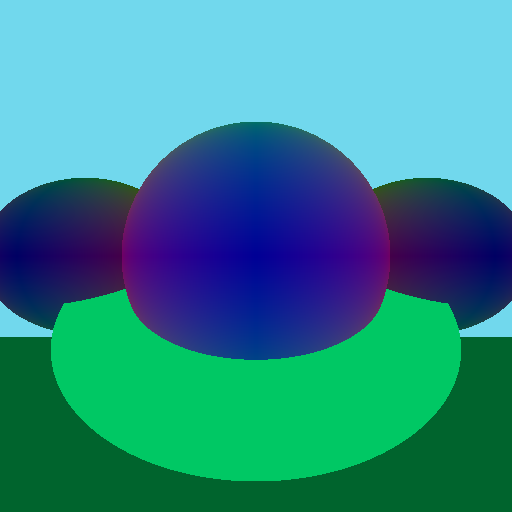
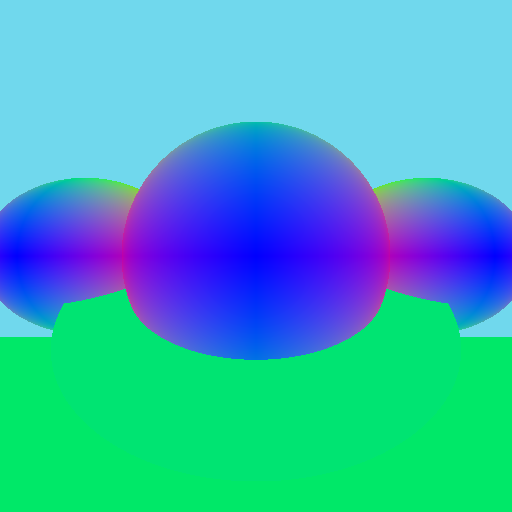
Color from 255 to 1

diff --git a/src/math/Color.java b/src/math/Color.java
@@ -8,17 +8,24 @@ public class Color extends Tuple {
             MUtils.normRGB(b),
             -1);
     }
+    public Color(int r, int g, int b){ 
+        super(
+            MUtils.normRGB(r/255),
+            MUtils.normRGB(g/255),
+            MUtils.normRGB(b/255),
+            -1);
+    }
 
     public int rgb(){
         int res = 0;
-        res += (int)x << 16;
-        res += (int)y << 8;
-        res += (int)z;
+        res += (int)(x*255) << 16;
+        res += (int)(y*255) << 8;
+        res += (int)(z*255);
         return res;
     }
 
     public Color mul(Color c){
-        return new Color(r() * c.r()/255,g() * c.g()/255,b() *c.b()/255);
+        return new Color(r()*c.r(), g()*c.g(), b()*c.b());
     }
 
     public double r(){ return x; }

diff --git a/src/scene/Scene.java b/src/scene/Scene.java
@@ -80,7 +80,7 @@ public class Scene {
         int height = camera.getHeight();
 
         BufferedImage image = new BufferedImage(width, height, BufferedImage.TYPE_INT_RGB);
-        Color def = new Color(113, 216, 237); // default background color
+        Color def = new Color(0.44, 0.85, 0.93); // default background color
         
         for (int x = 0; x < width; x++) for (int y = 0; y < height; y++) {
             Ray ray = camera.generateRay(x, y);
@@ -94,6 +94,10 @@ public class Scene {
         } catch (Exception e) {
             System.out.println(e.getMessage());
         }
+    }
+
+    public void makeImage(Shader shader){
+        makeImage(shader,shader.getName());
     }
 
     public void toJson(String name){

diff --git a/src/shader/ScreenNormalShader.java b/src/shader/ScreenNormalShader.java
@@ -10,11 +10,11 @@ public class ScreenNormalShader implements ScreenShader{
     @Override
     public Color getColor(int x, int y, int size) {
         Ray r = new Ray(new Point(0, 0, -100), new Vector(x+0.5-size/2,y+0.5-size/2,100));
-        return new Color(Math.abs(r.dir().x()),Math.abs(r.dir().y()),Math.abs(r.dir().z()));
+        return new Color(Math.abs(r.dir().x())/255,Math.abs(r.dir().y())/255,Math.abs(r.dir().z())/255);
     }
         
     @Override
     public String getName() {
-        return "SCREEN_NORMAL";
+        return "Screen Normal";
     }
 }

diff --git a/src/shader/DistanceShader.java b/src/shader/DistanceShader.java
@@ -9,7 +9,7 @@ public class DistanceShader implements Shader{
     @Override
     public Color getColor(Ray ray, Geometry geometry) {
         if(geometry.intersect(ray)){
-            double dis = ray.origin().sub(ray.hitPoint()).mag();
+            double dis = ray.origin().sub(ray.hitPoint()).mag()/255;
             return new Color(dis,dis,dis);
         }
         return null;
@@ -17,7 +17,7 @@ public class DistanceShader implements Shader{
 
     @Override
     public String getName() {
-        return "DISTANCE";
+        return "Distance";
     }
     
 }

diff --git a/src/shader/NormalShader.java b/src/shader/NormalShader.java
@@ -12,13 +12,13 @@ public class NormalShader implements Shader {
         if(geometry == null) return null;
         if(geometry.intersect(ray)){
             Vector v = geometry.normal(ray.hitPoint());
-            return new Color(Math.abs(v.x())*255,Math.abs(v.y())*255,Math.abs(v.z())*255);
+            return new Color(Math.abs(v.x()),Math.abs(v.y()),Math.abs(v.z()));
         }
         return null;
     }
         
     @Override
     public String getName() {
-        return "NORMAL";
+        return "Normal";
     }
 }

diff --git a/src/shader/ScreenDistanceShader.java b/src/shader/ScreenDistanceShader.java
@@ -6,12 +6,12 @@ import math.Vector;
 public class ScreenDistanceShader implements ScreenShader{
     @Override
     public Color getColor(int x, int y, int size) {
-        double dis = new Vector(x+0.5-size/2,y+0.5-size/2,100).mag();
+        double dis = new Vector(x+0.5-size/2,y+0.5-size/2,100).mag()/255;
         return new Color(dis,dis,dis);
     }
         
     @Override
     public String getName() {
-        return "SCREEN_DISTANCE";
+        return "Screen Distance";
     }
 }

diff --git a/src/tests/TestScreen.java b/src/tests/TestScreen.java
@@ -20,7 +20,7 @@ public class TestScreen {
         makeScreenImage(size, new ScreenNormalShader());
     }
 
-    static void makeScreenImage(int size, ScreenShader shader){
+    public static void makeScreenImage(int size, ScreenShader shader){
         BufferedImage image = new BufferedImage(size,size,BufferedImage.TYPE_INT_RGB);
         Color def = new Color(41, 139, 95); // default color
         Color c = null;

diff --git a/src/shader/IntersectShader.java b/src/shader/IntersectShader.java
@@ -8,11 +8,11 @@ public class IntersectShader implements Shader{
 
     @Override
     public Color getColor(Ray ray, Geometry geometry) {
-        return geometry.intersect(ray) ? new Color(50, 51, 68) : null;
+        return geometry.intersect(ray) ? new Color(0.19, 0.2, 0.26) : null;
     }
     
     @Override
     public String getName() {
-        return "INTERSECT";
+        return "Intersect";
     }
 }

diff --git a/src/shader/ScreenPixelShader.java b/src/shader/ScreenPixelShader.java
@@ -6,11 +6,11 @@ public class ScreenPixelShader implements ScreenShader {
 
     @Override
     public Color getColor(int x, int y, int size) {
-        return new Color((x+0.5)*255/size,(y+0.5)*255/size,0);
+        return new Color((x+0.5)/size,(y+0.5)/size,0);
     }
     
     @Override
     public String getName() {
-        return "SCREEN_PIXEL";
+        return "Screen Pixel";
     }
 }

diff --git a/src/math/MUtils.java b/src/math/MUtils.java
@@ -6,7 +6,7 @@ public class MUtils {
         return x < 0.00001;
     }
     public static double normRGB(double x){
-        return Math.min(255, Math.max(0, x));
+        return Math.min(1, Math.max(0, x));
     }
 
     public static boolean solveQuadratic(double a, double b, double c, Ray ray){

diff --git a/src/App.java b/src/App.java
@@ -5,6 +5,6 @@ import scene.*;
 
 class App {
     public static void main(String[] args){
-        new Scene("./scenes/myScene.json").makeImage(new NormalShader(), "Test");
+        new Scene("./scenes/myScene.json").makeImage(new NormalShader());
     }
 }

diff --git a/src/geometry/Plane.java b/src/geometry/Plane.java
@@ -48,6 +48,6 @@ public class Plane extends Geometry{
 
     @Override
     public Vector normal(Point hit) {
-        return n;
+        return n.norm();
     } 
 }
